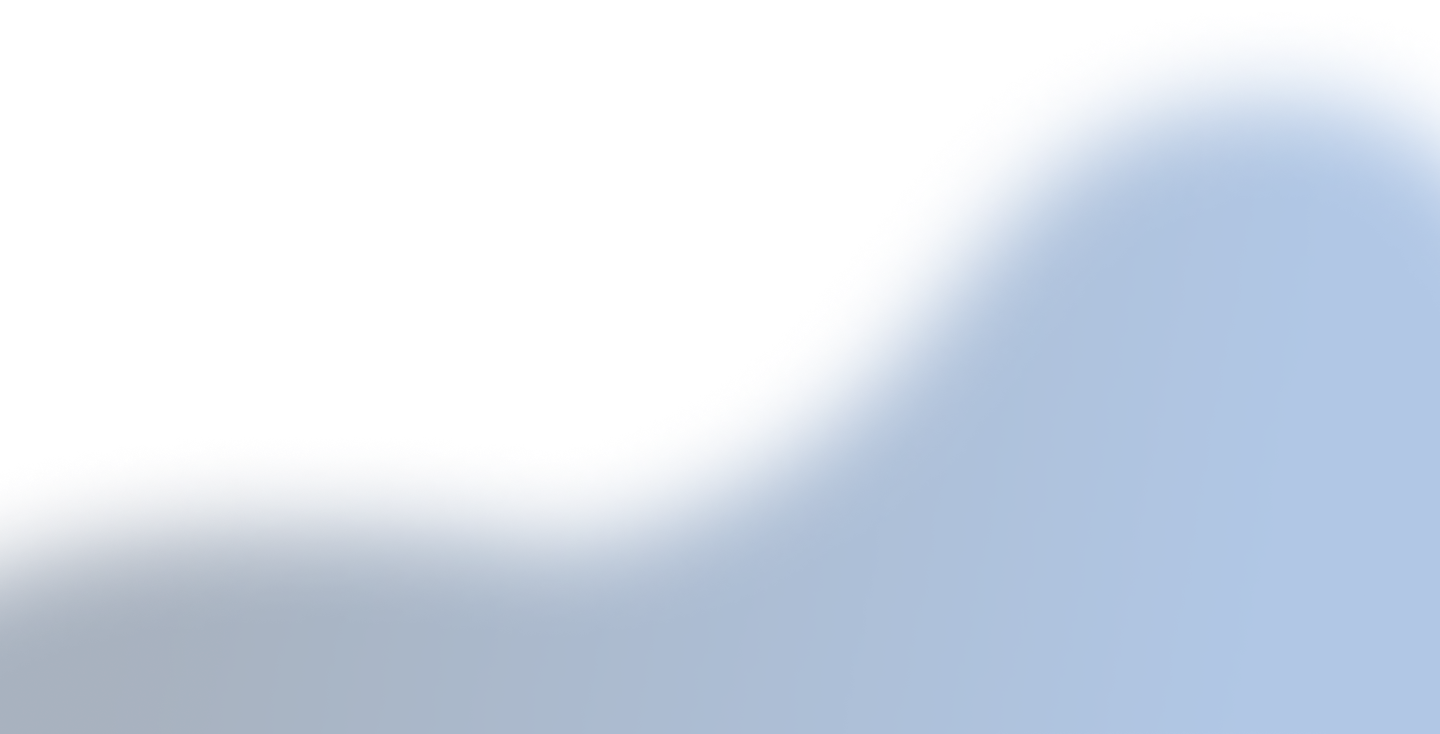
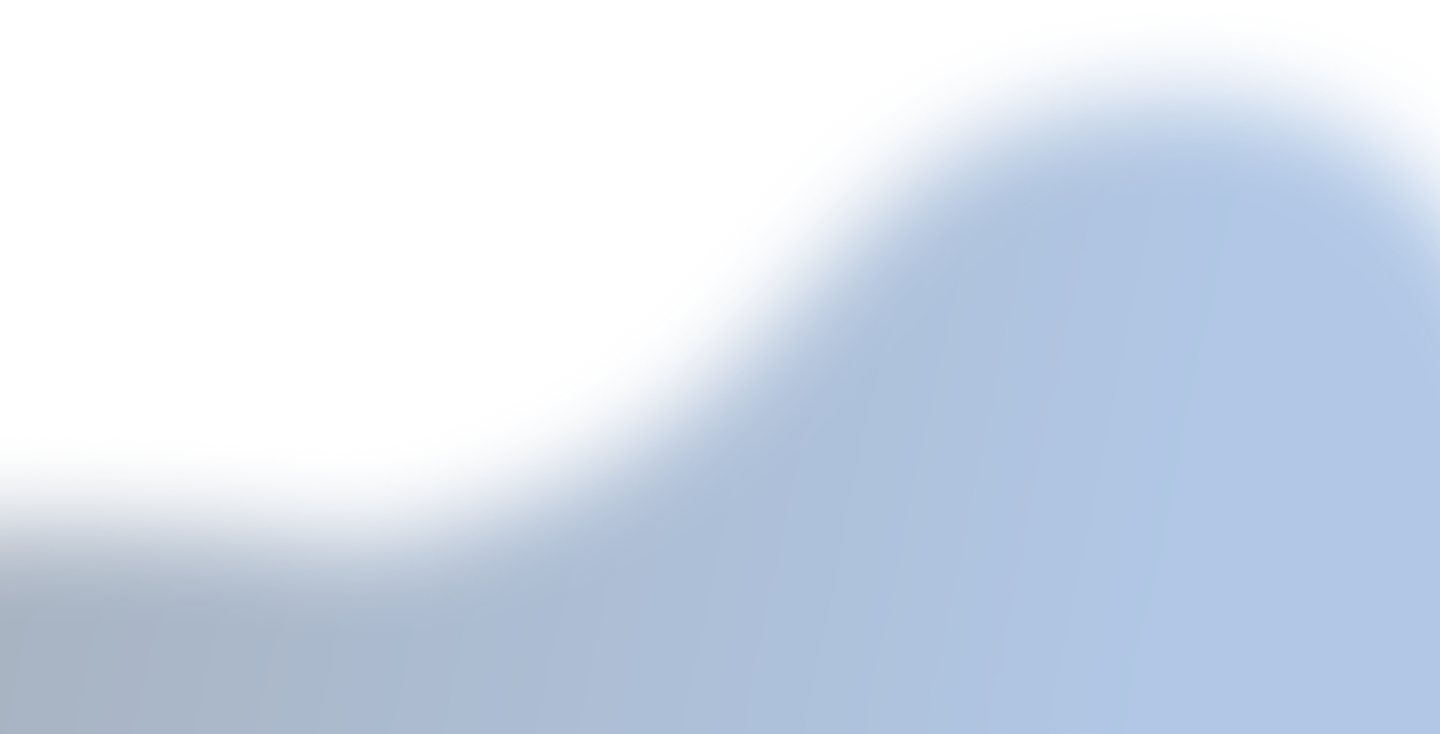
features animation

Changed region(s): [[0.3438, 0.1199, 0.7812, 0.7793], [0.9688, 0.1798, 1.0, 0.2997], [0.0, 0.6894, 0.0312, 0.7793]]

diff --git a/src/styles/features.css b/src/styles/features.css
@@ -2,130 +2,146 @@
 /* Features */
 
 .section-features {
-    height: 100vh;
-    position: relative;
+  height: 100vh;
+  position: relative;
+}
+
+.section-features .decoration-back {
+  position: absolute;
+  top: 0;
+  left: 0;
+}
+
+.section-features .container {
+  height: 100%;
+  width: 80%;
+  margin: 0 auto;
+  display: grid;
+  grid-template-columns: 15rem 1fr;
+}
+
+.section-features .content {
+  height: 100%;
+  display: flex;
+  align-items: center;
+  justify-content: center;
+  position: relative;
+  background-color: var(--color-secondary);
+  overflow: hidden;
+}
+
+.section-features .heading-secondary {
+  margin-bottom: 0;
+  transform: rotate(-90deg);
+  text-wrap-mode: nowrap;
+}
+
+.circle_up,
+.circle_down {
+  height: 18rem;
+  height: 18rem;
+  width: auto;
+  z-index: -1;
+  position: absolute;
+}
+.circle_up {
+  position: absolute;
+  top: 0;
+
+  z-index: 1;
+}
+.circle_down {
+  position: absolute;
+  bottom: 0;
+  z-index: 1;
+}
+
+.features-grid {
+  display: grid;
+  gap: 2rem;
+  width: fit-content;
+}
+
+.feature-wrapper {
+  position: relative;
+  display: flex;
+  align-items: center;
+}
+
+.feature-item::before {
+  content: '';
+  top: 50%;
+  margin-left: -3rem;
+  transform: translateY(-50%);
+  transform: translateX(-50%);
+  width: 1.2rem;
+  height: 1.2rem;
+  background-color: var(--color-secondary);
+  border-radius: 50%;
+}
+
+[class^='connector-line'] {
+  height: 2px;
+  background-color: var(--color-secondary);
+  animation: 2s infinite alternate ease-in-out extend;
+}
+
+.connector-line--short {
+  --line-width: 10rem;
+  width: var(--line-width);
+  animation-delay: -0.5s;
+}
+
+.connector-line--medium {
+  --line-width: 22rem;
+  width: var(--line-width);
+  animation-delay: -1s;
+}
+
+.connector-line--long {
+  --line-width: 37rem;
+  width: var(--line-width);
+  animation-delay: -1.5s;
+}
+
+@keyframes extend {
+  0%,
+  20% {
+    width: calc(var(--line-width) + 7rem);
   }
-  
-  .section-features .decoration-back {
-    position: absolute;
-    top: 0;
-    left: 0;
+
+  100% {
+    width: var(--line-width);
   }
-  
-  .section-features .container {
-    height: 100%;
-    width: 80%;
-    margin: 0 auto;
-    display: grid;
-    grid-template-columns: 15rem 1fr;
-  } 
-  
-  .section-features .content {
-    height: 100%;
-    display: flex;
-    align-items: center;
-    justify-content: center;
-    position: relative;
-    background-color: var(--color-secondary);
-    overflow: hidden;
-  }
-  
-  .section-features .heading-secondary {
-    margin-bottom: 0;
-    transform: rotate(-90deg);
-    text-wrap-mode: nowrap;
-  }
-  
-  .circle_up,
-  .circle_down {
-    height: 18rem;
-    height: 18rem;
-    width: auto;
-    z-index: -1;
-    position: absolute;
-  }
-  .circle_up {
-    position: absolute;
-    top: 0;
-  
-    z-index: 1;
-  }
-  .circle_down {
-    position: absolute;
-    bottom: 0;
-    z-index: 1;
-  }
-  
-  .features-grid {
-    width: 80%;
-    display: grid;
-    gap: 2rem;
-    width: fit-content;
-  }
-  
-  .feature-wrapper {
-    position: relative;
-    display: flex;
-    align-items: center;
-  }
-  
-  .feature-item::before {
-    content: '';
-    top: 50%;
-    margin-left: -3rem;
-    transform: translateY(-50%);
-    transform: translateX(-50%);
-    width: 1.2rem;
-    height: 1.2rem;
-    background-color: var(--color-secondary);
-    border-radius: 50%;
-  }
-  .connector-line {
-    height: 2px;
-    background-color: var(--color-secondary);
-  }
-  
-  .connector-line--short {
-    width: 10rem;
-  }
-  
-  .connector-line--medium {
-    width: 22rem;
-  }
-  
-  .connector-line--long {
-    width: 37rem;
-  }
-  
-  .feature-item {
-    background-color: var(--txt);
-    color: var(--color-secondary);
-    border-radius: 2rem;
-    display: flex;
-    align-items: center;
-    padding: 1.5rem 4rem;
-    margin: 0.6rem 0;
-    font-weight: 600;
-    font-size: 2.5rem;
-    transition: transform 0.3s ease;
-    /* width: fit-content; */
-  }
-  
-  .feature-item:hover {
-    transform: translateY(-5px);
-  }
-  
-  .feature-item .icon {
-    width: 3.5rem;
-    height: 3.5rem;
-    margin-right: 2rem;
-  }
-  
-  .section-features .decoration-bottom {
-    width: 35rem;
-    height: 35rem;
-    margin: 35rem 0 0 100rem;
-    /* t r b l*/
-    transform: translateY(-100%);
-    transform: rotate(270deg);
-  }
+}
+
+.feature-item {
+  background-color: var(--txt);
+  color: var(--color-secondary);
+  border-radius: 2rem;
+  display: flex;
+  align-items: center;
+  padding: 1.5rem 4rem;
+  margin: 0.6rem 0;
+  font-weight: 600;
+  font-size: 2.5rem;
+  transition: transform 0.3s ease;
+  /* width: fit-content; */
+}
+
+.feature-item .icon {
+  width: 3.5rem;
+  height: 3.5rem;
+  margin-right: 2rem;
+}
+
+.section-features .decoration-bottom {
+  width: 35rem;
+  height: 35rem;
+  margin: 35rem 0 0 100rem;
+  /* t r b l*/
+  transform: rotate(-290deg);
+  position: absolute;
+  bottom: 0;
+  right: 0;
+}

diff --git a/src/styles/meet.css b/src/styles/meet.css
@@ -2,6 +2,7 @@
 /* meet Section */
 .section-meet {
   text-align: center;
+  padding: 3rem;
 }
 
 .section-meet .container {
@@ -16,6 +17,13 @@
 .section-meet .decoration-back,
 .section-meet .decoration-bottom {
   z-index: -1;
+}
+
+.section-meet .decoration-back {
+  width: 100%;
+  height: 100%;
+  left: 0;
+  top: 0;
 }
 
 .section-meet .decoration-bottom {
@@ -36,7 +44,6 @@
 
 .messages-container {
   height: 75vh;
-  position: relative;
   -webkit-mask-image: linear-gradient(
     to bottom,
     transparent 0%,

diff --git a/src/features/Features.js b/src/features/Features.js
@@ -37,6 +37,7 @@ export default function Features() {
         {features.map((feature, index) => (
           <div key={index} className="feature-wrapper">
             <div
+              aria-hidden="true"
               className={`connector-line connector-line--${feature.lineLength}`}
             ></div>
             <FeatureItem icon={feature.icon} text={feature.text} />

diff --git a/src/styles/index.css b/src/styles/index.css
@@ -98,6 +98,7 @@ img {
 
 [class^='decoration-'] {
   position: absolute;
+  z-index: -1;
 }
 
 [class^='section-'] {
